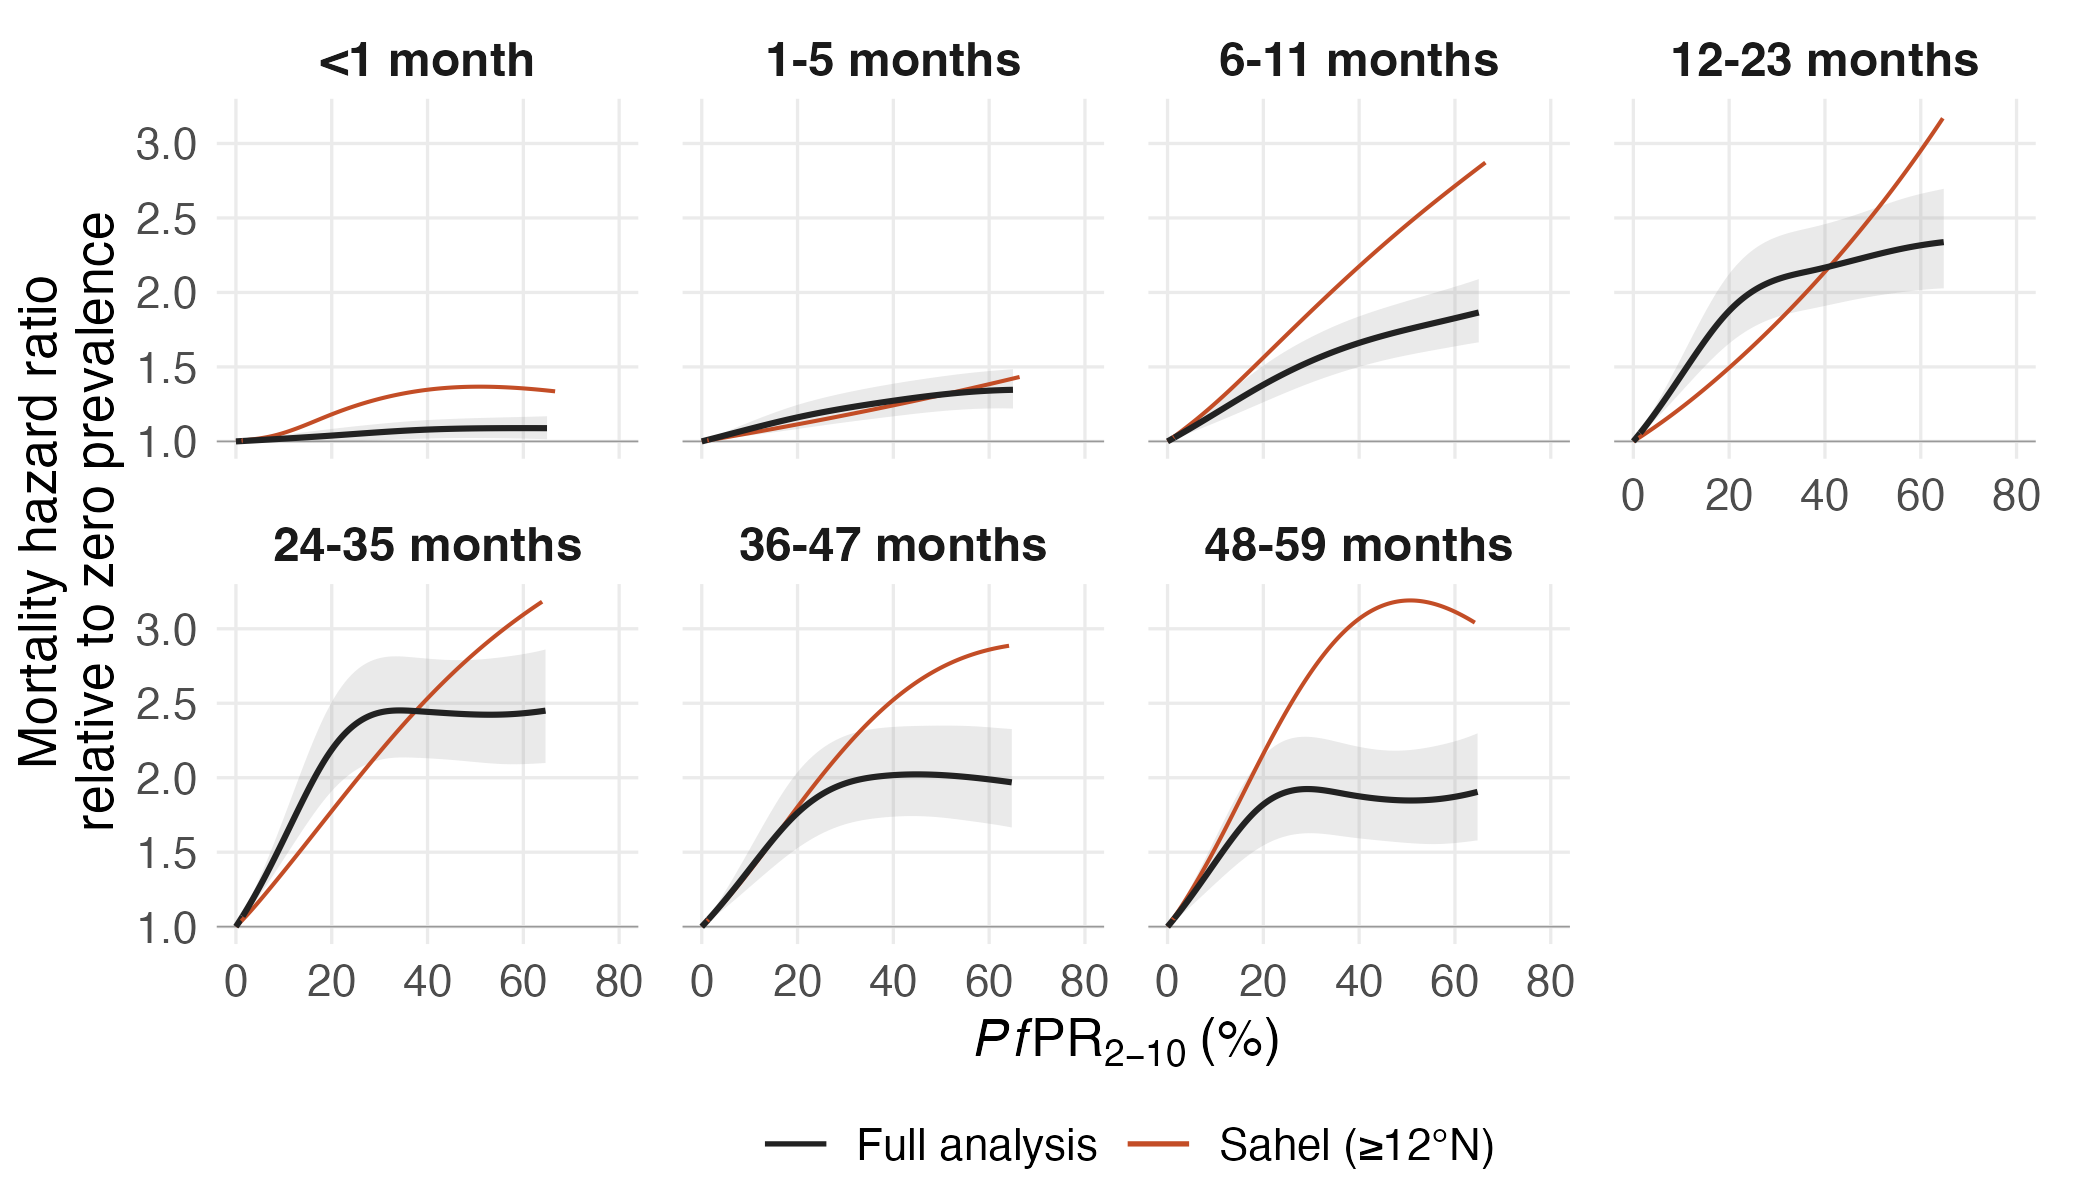
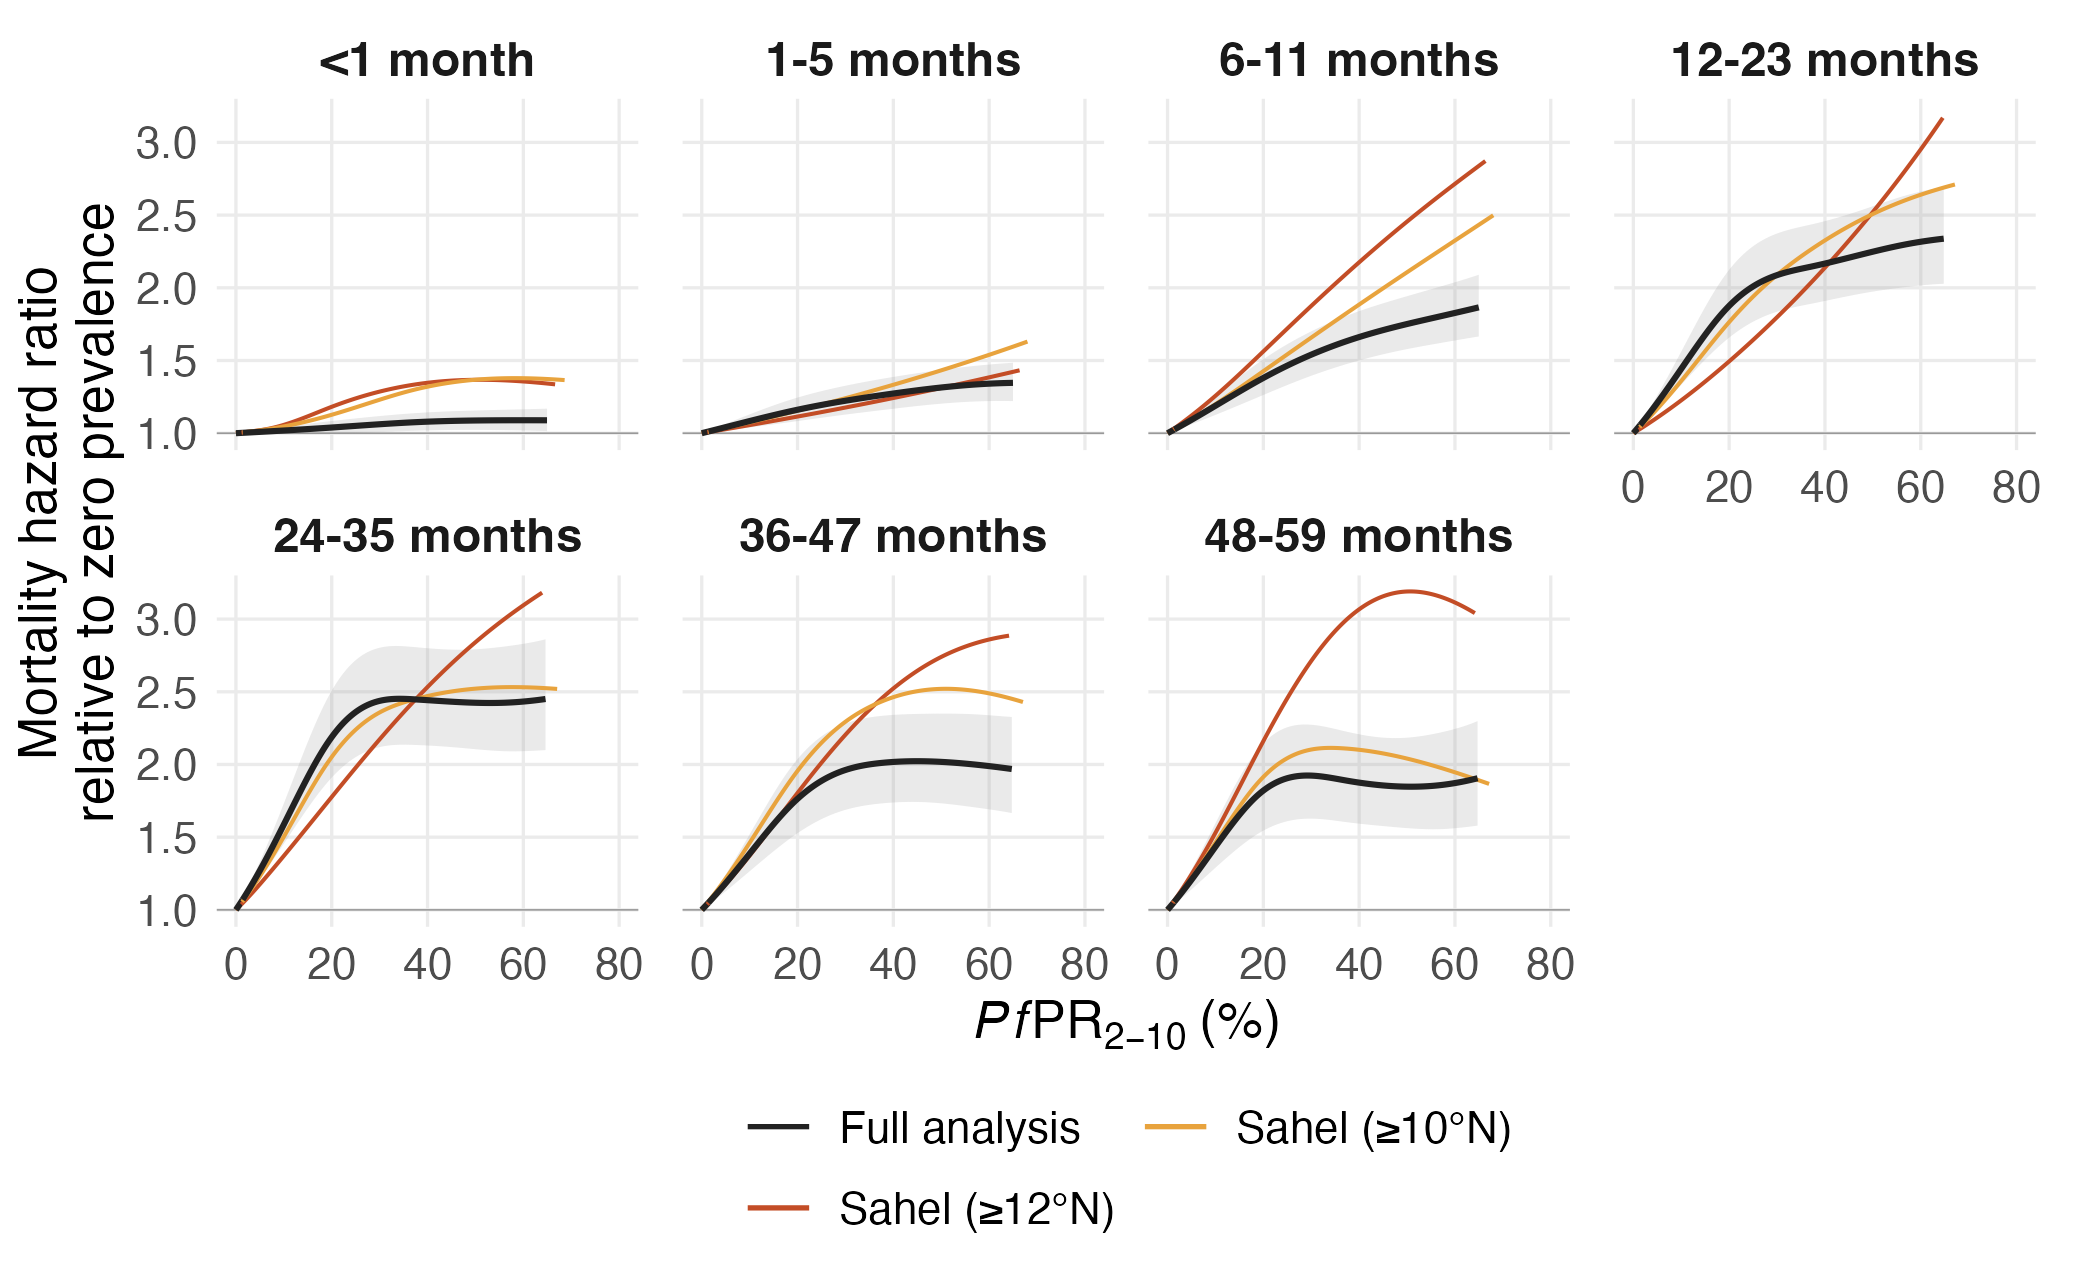
paper/: Sahel spline figure with the 10N Sahel curve

diff --git a/paper/Supplementary Figures/sfig_pfpr_splines_by_subgroup_caption.md b/paper/Supplementary Figures/sfig_pfpr_splines_by_subgroup_caption.md
@@ -1,3 +1,3 @@
 # Supplementary figure caption: PfPR splines by subgroup
 
-Sensitivity of the fitted PfPR–mortality relationship to the analysis subset. Mortality hazard ratios relative to zero prevalence (PfPR[2–10] = 0) by completed-month age band, from the PfPR-ACM model fitted to the full primary sample (black, with its pointwise 95% conditional interval shaded; the curves of Figure 2) and refitted separately in one subset: records whose survey-region boundary centroid lies at or north of 12°N and west of 36°E, excluding the Horn of Africa (Sahel). Each subset refit uses the same seven separate age-band models, 17 standardised covariates with the full-sample scaling, fixed HIV incidence imputation, gamma = 2 and basis dimensions as the primary analysis, with knots placed at quantiles of the subset's own predictor values. Each curve is solid over the central 95% of its own exposure distribution and dashed from zero to its 2.5th percentile, where the reference is reached by extrapolation into sparse data. Subset sizes. Sahel (≥12°N): 464,716 children, 1,551,121 records, 19,603 deaths, 286 survey × unit areas, 31 surveys, 8 countries. The subsets overlap the full sample and one another, so the curves are not independent and their differences are descriptive; the comparison does not constitute a test of effect modification. Subset intervals are omitted for legibility and are available in the saved curve table.
+Sensitivity of the fitted PfPR–mortality relationship to the analysis subset. Mortality hazard ratios relative to zero prevalence (PfPR[2–10] = 0) by completed-month age band, from the PfPR-ACM model fitted to the full primary sample (black, with its pointwise 95% conditional interval shaded; the curves of Figure 2) and refitted separately in two subsets: records whose survey-region boundary centroid lies at or north of 12°N and west of 36°E, excluding the Horn of Africa (Sahel); and the same with the latitude bound at 10°N, which adds northern Nigeria (its North West and North East zones), most of Guinea, and parts of Benin, Burkina Faso, Cameroon, Chad, Ghana, Guinea-Bissau, Mali and Togo (Sahel, ≥10°N). Each subset refit uses the same seven separate age-band models, 17 standardised covariates with the full-sample scaling, fixed HIV incidence imputation, gamma = 2 and basis dimensions as the primary analysis, with knots placed at quantiles of the subset's own predictor values. Each curve is solid over the central 95% of its own exposure distribution and dashed from zero to its 2.5th percentile, where the reference is reached by extrapolation into sparse data. Subset sizes. Sahel (≥12°N): 464,716 children, 1,551,121 records, 19,603 deaths, 286 survey × unit areas, 31 surveys, 8 countries; Sahel (≥10°N): 760,586 children, 2,524,874 records, 39,408 deaths, 456 survey × unit areas, 57 surveys, 14 countries. The subsets overlap the full sample and one another, so the curves are not independent and their differences are descriptive; the comparison does not constitute a test of effect modification. Subset intervals are omitted for legibility and are available in the saved curve table.
